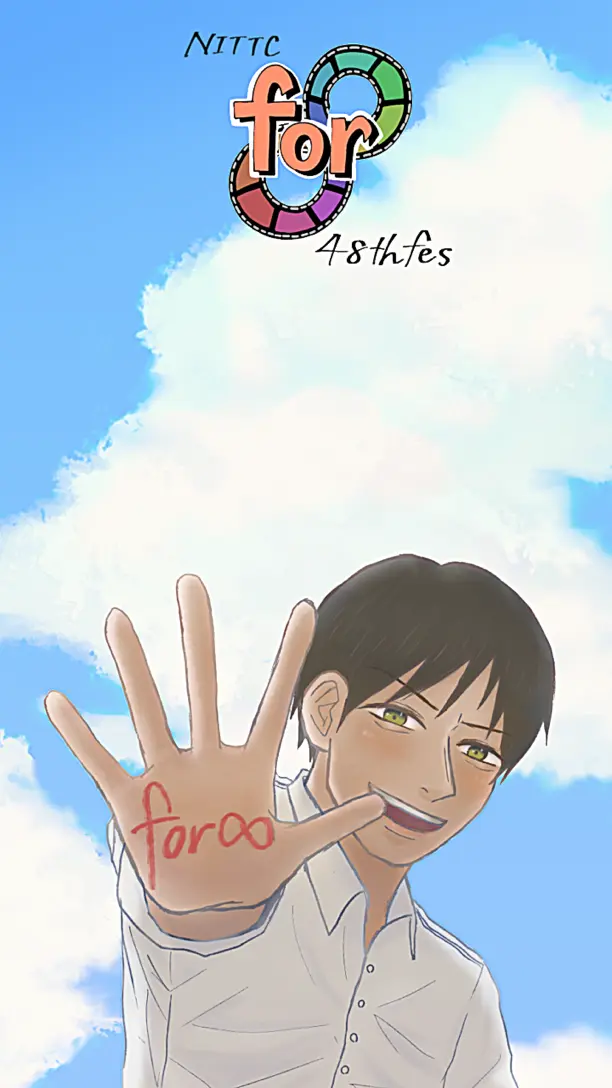
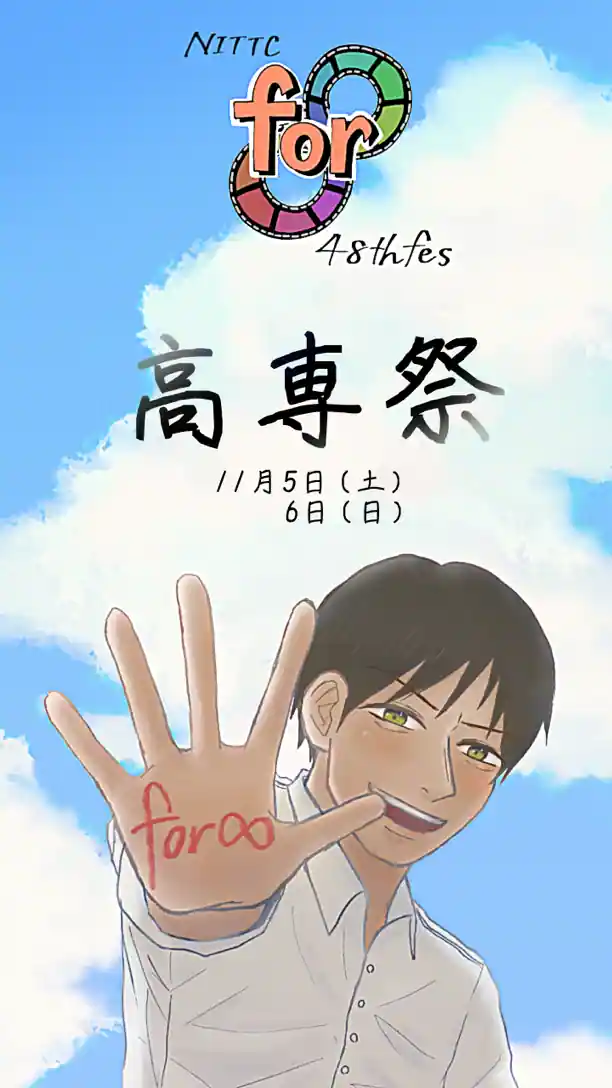
:sparkles: add about section and change main visual

diff --git a/style/index.css b/style/index.css
@@ -1,1 +1,1 @@
-@import url("https://fonts.googleapis.com/css2?family=M+PLUS+Rounded+1c:wght@300;400;500&display=swap");*{margin:0;padding:0;box-sizing:border-box}html{scroll-behavior:smooth}body{font-family:M PLUS Rounded\ 1c,sans-serif;font-feature-settings:"palt";font-size:calc(8px + 2vmin);color:#6a6a6a}@media only screen and (min-width:600px){body :not(.notify){display:none}}@media only screen and (min-width:1024px){body :not(.notify){display:none}}body .notify{height:100vh;width:100vw;display:none}@media only screen and (min-width:600px){body .notify{display:block}}@media only screen and (min-width:1024px){body .notify{display:block}}@media only screen and (min-width:600px){body{font-size:16px}}body .modal{color:#6a6a6a;padding:1em;border:none;overflow:auto;margin:auto}body .modal::backdrop{background-color:rgba(0,0,0,.4)}@media only screen and (min-width:600px){body .modal{width:600px}}body .modal a{text-decoration:none}body #top{height:100vh;width:100vw;background-image:url(../image/main_s.webp);background-position:50%;background-repeat:no-repeat;background-size:cover}@media only screen and (min-width:600px){body #top{background-image:url(../image/main_l.webp);background-position:top;width:100vw}}body #container{max-width:100vw}body #container article .section_title{font-weight:400;padding-top:1em;padding-bottom:1em;text-align:center;height:4em;position:sticky;top:0}body #container #about{height:auto}body #container #about .section_title{margin-bottom:1em}body #container #about .wrap{margin-right:24px;margin-left:24px;padding-bottom:1em}body #container #about .wrap .about_content .greet{background-color:#fff;margin-bottom:3em;padding-top:1em;display:flex;flex-wrap:wrap}@media only screen and (min-width:600px){body #container #about .wrap .about_content .greet{flex-wrap:nowrap;margin-left:10em;margin-right:10em;padding:1em 3em}}body #container #about .wrap .about_content .greet .about_content{padding:0 1em 1em}body #container #about .wrap .about_content .greet .about_content .name{padding:1em 1em 1em 0}body #container #about .wrap .about_content .greet .about_img{margin:0 auto}body #container #about .wrap .about_content .greet .about_img img{max-height:none;max-width:200px;border-radius:50%}body #container #event{width:100vw}body #container #event .wrap{padding:0 2em;text-align:center}body #container #event .wrap .card{padding-bottom:2em}body #container #event .wrap .card .card_modal{border-radius:10%;color:#001858;margin:auto;min-width:300px;border:none}body #container #event .wrap .card .card_modal::backdrop{background-color:rgba(0,0,0,.4)}@media only screen and (min-width:600px){body #container #event .wrap .card .card_modal{width:600px}}body #container #event .wrap .card .card_modal .modal_content{background-color:#e5ffff;color:#6a6a6a;padding-top:2em;padding-bottom:2em;line-break:normal}body #container #event .wrap .card .card_modal .modal_content .card_title{font-weight:400;padding-top:1em}body #container #event .wrap .card .card_modal .modal_content .card_location{display:inline-block;background-color:#fff;color:#d65f63;padding:.3em .6em;border-radius:15%}body #container #event .wrap .card .card_modal .modal_content .card_content{padding:0 1em}body #container #event .wrap .card .card_button{border:1px solid #6c6c6c;height:200px;width:200px;border-radius:15%;opacity:0}body #container #event .wrap .card .active{opacity:1;animation-name:a;animation-duration:1s;animation-iteration-count:1}body #container #event .wrap .card .card_img{height:200px;width:200px;border-radius:20%}body #container #event .wrap .withoutimg{padding:1em}body #container #event .wrap .withoutimg .card_location{display:inline-block;background-color:#fff;color:#d65f63;padding:.3em .6em;border-radius:15%}@media only screen and (min-width:600px){body #container #event .wrap{margin-right:10em;margin-left:10em;display:flex;flex-wrap:wrap;align-items:center;justify-content:space-around;gap:1em 2em}}body #container #info .wrap{padding-bottom:2em;margin-right:3em;margin-left:3em}@media only screen and (min-width:600px){body #container #info .wrap{display:flex;justify-content:space-around;align-items:center}body #container #info .wrap .info_content iframe{width:100%;height:300px}}body #container #info .wrap a{text-decoration:none}body #container #info .wrap .access_content{font-size:.9em;padding-bottom:1em}body #container #info .wrap .info_content .maps{line-height:1.5em}body #container #info .wrap .info_content iframe{border:none;margin:0 auto;display:block;height:200px;width:250px}body #container #sns .wrap{margin-right:2em;margin-left:2em;padding-bottom:2em}body #container #sponsor .wrap{margin-right:3em;margin-left:3em}body #container #sponsor .wrap img{width:100px;height:100px}body #container #dept .wrap{padding-bottom:1em;margin-right:3em;margin-left:3em}body #container #dept .wrap .dept_content .dept_list{list-style:none}body #container article:nth-child(odd){background:#e5ffff}body #container article:nth-child(odd) .section_title{color:#295c58}body #container article:nth-child(2n){background:#fff}body #pagination{position:fixed;top:50%;right:1em;transform:translateY(-50%)}body #pagination a{opacity:.5;display:block;width:.5em;height:.5em;border-radius:50%;background-color:#000;margin:2em 0;transition:transform .2s}body #pagination a.active{transform:scale(1.5)}body footer p{text-align:center;font-size:10px}@keyframes a{0%{opacity:0}50%{opacity:.7}to{opacity:1}}
+@import url("https://fonts.googleapis.com/css2?family=M+PLUS+Rounded+1c:wght@300;400;500&display=swap");*{margin:0;padding:0;box-sizing:border-box}html{scroll-behavior:smooth}body{font-family:M PLUS Rounded\ 1c,sans-serif;font-feature-settings:"palt";font-size:calc(8px + 2vmin);color:#6a6a6a}@media only screen and (min-width:600px){body :not(.notify){display:none}}@media only screen and (min-width:1024px){body :not(.notify){display:none}}body .notify{height:100vh;width:100vw;display:none}@media only screen and (min-width:600px){body .notify{display:block}}@media only screen and (min-width:1024px){body .notify{display:block}}@media only screen and (min-width:600px){body{font-size:16px}}body .modal{color:#6a6a6a;padding:1em;border:none;overflow:auto;margin:auto}body .modal::backdrop{background-color:rgba(0,0,0,.4)}@media only screen and (min-width:600px){body .modal{width:600px}}body .modal a{text-decoration:none}body #top{height:100vh;width:100vw;background-image:url(../image/main_s.webp);background-position:50%;background-repeat:no-repeat;background-size:cover}@media only screen and (min-width:600px){body #top{background-image:url(../image/main_l.webp);background-position:top;width:100vw}}body #container{max-width:100vw}body #container article .section_title{font-weight:400;padding-top:1em;padding-bottom:1em;text-align:center;height:4em;position:sticky;top:0}body #container #about .about_content{font-size:calc(10px + 2vmin);padding:0 2em 2em}body #container #greeting{height:auto}body #container #greeting .section_title{margin-bottom:1em}body #container #greeting .wrap{margin-right:24px;margin-left:24px;padding-bottom:1em}body #container #greeting .wrap .wrap .greet{background-color:#fff;margin-bottom:3em;padding-top:1em;display:flex;flex-wrap:wrap}@media only screen and (min-width:600px){body #container #greeting .wrap .wrap .greet{flex-wrap:nowrap;margin-left:10em;margin-right:10em;padding:1em 3em}}body #container #greeting .wrap .wrap .greet .greet_content{padding:0 1em 1em}body #container #greeting .wrap .wrap .greet .greet_content .name{padding:1em 1em 1em 0}body #container #greeting .wrap .wrap .greet .greet_img{margin:0 auto}body #container #greeting .wrap .wrap .greet .greet_img img{max-height:none;max-width:200px;border-radius:50%}body #container #event{width:100vw}body #container #event .wrap{padding:0 2em;text-align:center}body #container #event .wrap .card{padding-bottom:2em}body #container #event .wrap .card .card_modal{border-radius:10%;color:#001858;margin:auto;min-width:300px;border:none}body #container #event .wrap .card .card_modal::backdrop{background-color:rgba(0,0,0,.4)}@media only screen and (min-width:600px){body #container #event .wrap .card .card_modal{width:600px}}body #container #event .wrap .card .card_modal .modal_content{background-color:#fff;color:#6a6a6a;padding-top:2em;padding-bottom:2em;line-break:normal}body #container #event .wrap .card .card_modal .modal_content .card_title{font-weight:400;padding-top:1em}body #container #event .wrap .card .card_modal .modal_content .card_location{display:inline-block;background-color:#fff;color:#d65f63;padding:.3em .6em;border-radius:15%}body #container #event .wrap .card .card_modal .modal_content .card_content{padding:0 1em}body #container #event .wrap .card .card_button{border:1px solid #6c6c6c;height:200px;width:200px;border-radius:15%;opacity:0}body #container #event .wrap .card .active{opacity:1;animation-name:a;animation-duration:1s;animation-iteration-count:1}body #container #event .wrap .card .card_img{height:200px;width:200px;border-radius:20%}body #container #event .wrap .withoutimg{padding:1em}body #container #event .wrap .withoutimg .card_location{display:inline-block;background-color:#fff;color:#d65f63;padding:.3em .6em;border-radius:15%}@media only screen and (min-width:600px){body #container #event .wrap{margin-right:10em;margin-left:10em;display:flex;flex-wrap:wrap;align-items:center;justify-content:space-around;gap:1em 2em}}body #container #info .wrap{padding-bottom:2em;margin-right:3em;margin-left:3em}@media only screen and (min-width:600px){body #container #info .wrap{display:flex;justify-content:space-around;align-items:center}body #container #info .wrap .info_content iframe{width:100%;height:300px}}body #container #info .wrap a{text-decoration:none}body #container #info .wrap .access_content{font-size:.9em;padding-bottom:1em}body #container #info .wrap .info_content .maps{line-height:1.5em}body #container #info .wrap .info_content iframe{border:none;margin:0 auto;display:block;height:200px;width:250px}body #container #sns .wrap{margin-right:2em;margin-left:2em;padding-bottom:2em}body #container #sponsor .wrap{margin-right:3em;margin-left:3em}body #container #sponsor .wrap a{text-decoration:none}body #container #dept .wrap{padding-bottom:1em;margin-right:3em;margin-left:3em}body #container #dept .wrap .dept_content .dept_list{list-style:none}body #container #dept .wrap .dept_content .dept_list li a{text-decoration:none}body #container article:nth-child(odd){background:#fff}body #container article:nth-child(2n){background:#e5ffff}body #container article:nth-child(2n) .section_title{color:#295c58}body #pagination{position:fixed;top:50%;right:1em;transform:translateY(-50%)}body #pagination a{opacity:.5;display:block;width:.5em;height:.5em;border-radius:50%;background-color:#000;margin:2em 0;transition:transform .2s}body #pagination a.active{transform:scale(1.5)}body footer p{text-align:center;font-size:10px}@keyframes a{0%{opacity:0}50%{opacity:.7}to{opacity:1}}

diff --git a/index.html b/index.html
@@ -21,6 +21,10 @@
     </dialog>
     <section class="content" id="top"></section>
     <div id="container">
+      <article class="content" id="about">
+        <h2 class="section_title">第48回徳山高専高専祭</h2>
+        <p class="about_content">高専祭テーマ「for ∞」には高専祭には無限の可能性があるという強い思いが込められています。 このコロナ禍の状況を転換期と捉え、例年行っている各企画に加え、体験型の企画も多数開催しています。私たちの生み出す可能性を、思いを、感じていただけたら幸いです。</p>
+      </article>
       <article class="content" id="event">
         <h2 class="section_title">模擬店</h2>
         <div class="wrap">
@@ -200,6 +204,16 @@
                     </dialog>
                   </div>
                     <div class="withoutimg">
+                      <h3 class="card_title">ME学科企画</h3>
+                      <p class="card_location">実習工場</p>
+                      <p class="card_content">ME企画では、ME学科紹介として、授業で製作したロボットや実習工場の製作物などの展示を行います。学生製作の色々なロボットや実習工場の高精度な製作物を見ることができます。是非見学にお越しください！</p>
+                    </div>
+                    <div class="withoutimg">
+                      <h3 class="card_title">CA学科企画</h3>
+                      <p class="card_location">専門科目棟2階 共同研究室</p>
+                      <p class="card_content">パスタと粘土この二つの材料で高さを競う、それがパスタタワー！個人でもチームでも大歓迎、最高記録を塗り替えるのはあなたかもしれません。お待ちしております！</p>
+                    </div>
+                    <div class="withoutimg">
                       <h3 class="card_title">女子バスケットボール部</h3>
                       <p class="card_location">第一スタジオ型演習室</p>
                       <p class="card_content">こんにちは！バスケ部です。私達は射的をします。どなたでも気軽に参加していただけます。是非遊びに来てください♪沢山の飾り付けもしているのでそちらもお楽しみください♪</p>
@@ -219,17 +233,11 @@
                       <p class="card_location">談話室</p>
                       <p class="card_content">どうも！文芸部です。文芸部では文芸誌の配布を行います。無料配布になるのでご自由にお持ちください。かなり自由に書かれた物語が入っています。 難し気なものではないので気楽にお読みください！</p>
                     </div>
-                    <div class="withoutimg">
-                      <h3 class="card_title">CA学科企画</h3>
-                      <p class="card_location">専門科目棟2階 共同研究室</p>
-                      <p class="card_content">パスタと粘土この二つの材料で高さを競う、それがパスタタワー！個人でもチームでも大歓迎、最高記録を塗り替えるのはあなたかもしれません。お待ちしております！</p>
-                    </div>
         </div>
       </article>
       <article class="content" id="info">
         <h2 class="section_title">アクセス/マップ</h2>
         <div class="wrap">
-          <!--img(src='map_image' alt='マップ')-->
           <div class="access">
             <h3>バス</h3>
             <p class="access_content">
@@ -252,15 +260,8 @@
               <p><a href="./image/insidemap.webp" target="_blank">校内マップはこちら</a></p>
             </div>
           </div>
-          <!--a(href='https://goo.gl/maps/QSsth99ah3HvgynN8' target='_blank') 徳山高専はこちら-->
         </div>
       </article>
-      <!--article#sns.content
-      h2.section_title SNS
-      .wrap
-          |<a class="twitter-timeline" href="https://twitter.com/toku_kosensai?ref_src=twsrc%5Etfw" data-tweet-limit='2'>Tweets by toku_kosensai</a> <script async src="https://platform.twitter.com/widgets.js" charset="utf-8"></script>
-      
-      -->
       <article class="content" id="sponsor">
         <h2 class="section_title">スポンサー</h2>
         <div class="wrap"><a href="./pdfjs/web/viewer.html?file=../../image/sponsor.pdf">スポンサー</a></div>
@@ -285,34 +286,34 @@
           </div>
         </div>
       </article>
-      <article class="content" id="about">
+      <article class="content" id="greeting">
         <h2 class="section_title">ご挨拶</h2>
         <div class="wrap">
-          <section class="about_content">
+          <div class="wrap">
             <div class="greet">
-              <div class="about_img"><img src="./image/principal.webp" alt="校長先生"></div>
-              <div class="about_content">
+              <div class="greet_img"><img src="./image/principal.webp" alt="校長先生"></div>
+              <div class="greet_content">
                 <h3 class="name">校長 勇　秀憲</h3>
                 <p>徳山高専「高専祭」にご来場いただき、ありがとうございます。高専祭は今年で第48回を迎えます。今年のテーマは、”4”を”for”に”8”を”∞(無限)“とし「高専祭には無限の可能性がある」という意味も込めています。コロナ感染対策を徹底しての開催です。ご理解、ご協力をお願いします。学生たちが多くの企画や催しを準備しています。みなさん、大いに楽しんでください。</p>
               </div>
             </div>
             <div class="greet">
-              <div class="about_img"><img src="./image/chairman.webp" alt="実行委員長"></div>
-              <div class="about_content">
+              <div class="greet_img"><img src="./image/chairman.webp" alt="実行委員長"></div>
+              <div class="greet_content">
                 <h3 class="name">実行委員長 長谷川 京香</h3>
                 <p>この度は第48回徳山高専高専祭にお越しくださり誠にありがとうございます。皆様にはご不便をお掛けしますが、3密の回避、消毒の実施などの感染症予防のための取り組みへのご協力をお願いするとともに、学生に限らず多くの方のご尽力により開催することができましたこの度の高専祭をぜひ楽しんでいただけたら幸いです。</p>
               </div>
             </div>
             <div class="greet">
-              <div class="about_img"><img src="./image/president.webp" alt="学生会長"></div>
-              <div class="about_content">
+              <div class="greet_img"><img src="./image/president.webp" alt="学生会長"></div>
+              <div class="greet_content">
                 <h3 class="name">学生会長 山田 大智</h3>
                 <p>第48回高専祭を開催するにあたってご協賛いただいきましたスポンサーの皆様、徳山大学の皆様、並びに高専関係者の皆様に心よりお礼申し上げます。今年は幸いなことに3年ぶりの2日間での開催となりました。去年とは大きく変化した状況の中、学生会は皆様に全力で楽しんでいただくことができるよう準備いたしました。2日間惜しみなく皆様に満足していただける企画が盛りだくさんですので、最後まで楽しんでいただけると幸いです。</p>
               </div>
             </div>
             <div class="greet">
-              <div class="about_img"><img src="./image/manager.webp" alt="学生主事"></div>
-              <div class="about_content">
+              <div class="greet_img"><img src="./image/manager.webp" alt="学生主事"></div>
+              <div class="greet_content">
                 <h3 class="name">学生主事 張間  貴史</h3>
                 <p>
                   おいでませ「高専祭」へ。<br>
@@ -320,11 +321,11 @@
                 </p>
               </div>
             </div>
-          </section>
+          </div>
         </div>
       </article>
     </div>
-    <nav class="pagination" id="pagination"><a href="#event"></a><a href="#info"></a><a href="#sns"></a><a href="#sponsor"></a><a href="#dept"></a><a href="#about"></a></nav>
+    <nav class="pagination" id="pagination"><a href="#about"></a><a href="#event"></a><a href="#info"></a><a href="#sns"></a><a href="#sponsor"></a><a href="#dept"></a><a href="#greeting"></a></nav>
     <footer>
       <p>Copyright © 2022 National Institute of Technology, Tokuyama College Student Council All Rights Reserved</p>
     </footer>

diff --git a/style/index.scss b/style/index.scss
@@ -1,9 +1,9 @@
 @import url("https://fonts.googleapis.com/css2?family=M+PLUS+Rounded+1c:wght@300;400;500&display=swap");
-$evenBackground: #fff;
+$evenBackground: #e5ffff;
 //$oddBackground: #fef7f8;
-$oddBackground: #e5ffff;
+$oddBackground: #fff;
 //$oddTitleColor: #d65f63;
-$oddTitleColor: #295c58;
+$evenTitleColor: #295c58;
 $mainFont: "M PLUS Rounded 1c", sans-serif;
 $fontColor: #6a6a6a;
 $stroke: #6c6c6c;
@@ -107,6 +107,12 @@ body {
       }
     }
     #about {
+      .about_content {
+        font-size: calc(10px + 2vmin);
+        padding: 0 2em 2em 2em;
+      }
+    }
+    #greeting {
       height: auto;
       .section_title {
         margin-bottom: 1em;
@@ -115,7 +121,7 @@ body {
         margin-right: 24px;
         margin-left: 24px;
         padding-bottom: 1em;
-        .about_content {
+        .wrap {
           .greet {
             background-color: #fff;
             margin-bottom: 3em;
@@ -128,14 +134,14 @@ body {
               margin-right: 10em;
               padding: 1em 3em 1em 3em;
             }
-            .about_content {
+            .greet_content {
               padding: 0 1em 1em 1em;
 
               .name {
                 padding: 1em 1em 1em 0;
               }
             }
-            .about_img {
+            .greet_img {
               margin: 0 auto;
               img {
                 max-height: none;
@@ -281,9 +287,8 @@ body {
       .wrap {
         margin-right: 3em;
         margin-left: 3em;
-        img {
-          width: 100px;
-          height: 100px;
+        a {
+          text-decoration: none;
         }
       }
     }
@@ -295,18 +300,23 @@ body {
         .dept_content {
           .dept_list {
             list-style: none;
+            li {
+              a {
+                text-decoration: none;
+              }
+            }
           }
         }
       }
     }
     article:nth-child(odd) {
       background: $oddBackground;
-      .section_title {
-        color: $oddTitleColor;
-      }
     }
     article:nth-child(even) {
       background: $evenBackground;
+      .section_title{
+        color: $evenTitleColor;
+      }
     }
   }
   #pagination {
